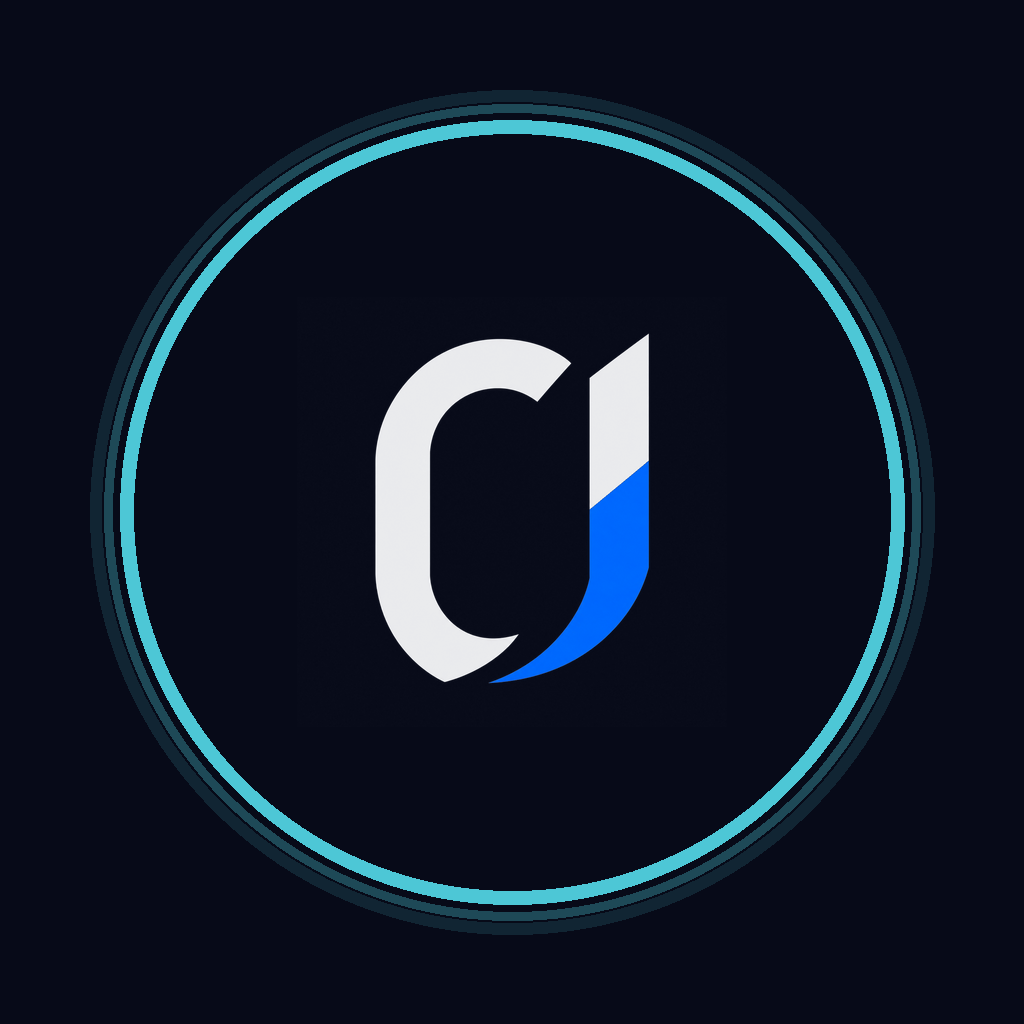
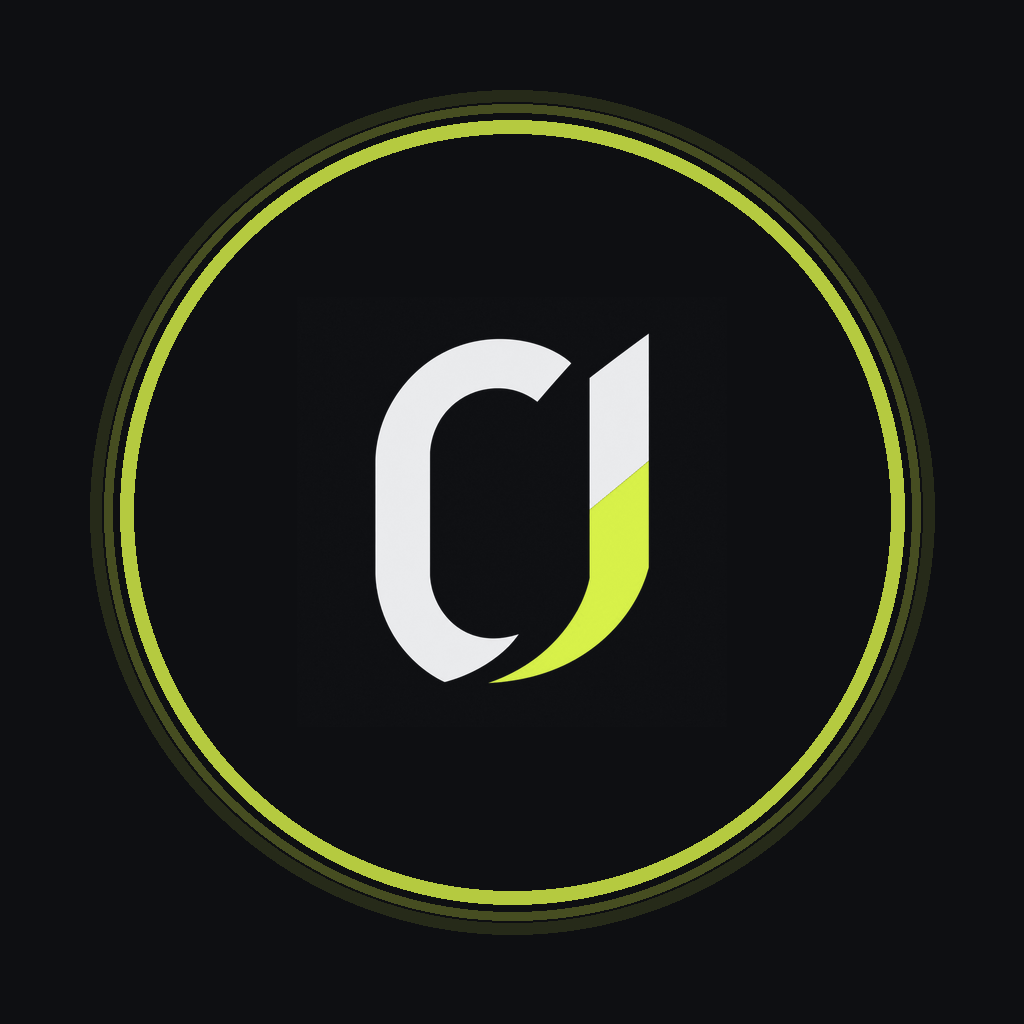
feat: 开屏全面切换 App 品牌黄绿风——背景/商标/图标统一 #D9F24A
- 背景:深空蓝径向光 → App 暗底 #0E0F12 + 品牌黄绿径向光
  (#232A0E→#15170C→#0E0F12),与页面主题无缝
- 商标蓝色斜杠程序化替换为 #D9F24A(保留明度层次;负责人出正式
  改色稿后直接覆盖 assets/images/company-mark.png 即可)
- 原生启动图/App 图标/Android 自适应图标底色与环色同步黄绿主题
- iPhone 已重建安装

Changed region(s): [[0.0625, 0.0625, 0.9375, 0.9375], [0.4688, 0.4375, 0.6562, 0.6875]]

diff --git a/app/src/components/animated-icon.tsx b/app/src/components/animated-icon.tsx
@@ -17,7 +17,7 @@ import Animated, {
 } from 'react-native-reanimated';
 import { scheduleOnRN } from 'react-native-worklets';
 
-const BG = '#070A18';
+const BG = '#0E0F12';   // App 暗色底,与页面无缝
 const BRAND = '#5CF0FF';
 const SWEEP_STEP = 55;      // 每字流光间隔
 const SWEEP_DUR = 650;      // 单字提亮-回落
@@ -177,7 +177,7 @@ const styles = StyleSheet.create({
     zIndex: 1000,
     backgroundColor: BG,
     experimental_backgroundImage:
-      'radial-gradient(120% 100% at 70% 0%, #142A73 0%, #0A1024 55%, #070A18 100%)',
+      'radial-gradient(120% 100% at 70% 0%, #232A0E 0%, #15170C 55%, #0E0F12 100%)',
   },
   watermark: {
     position: 'absolute',
